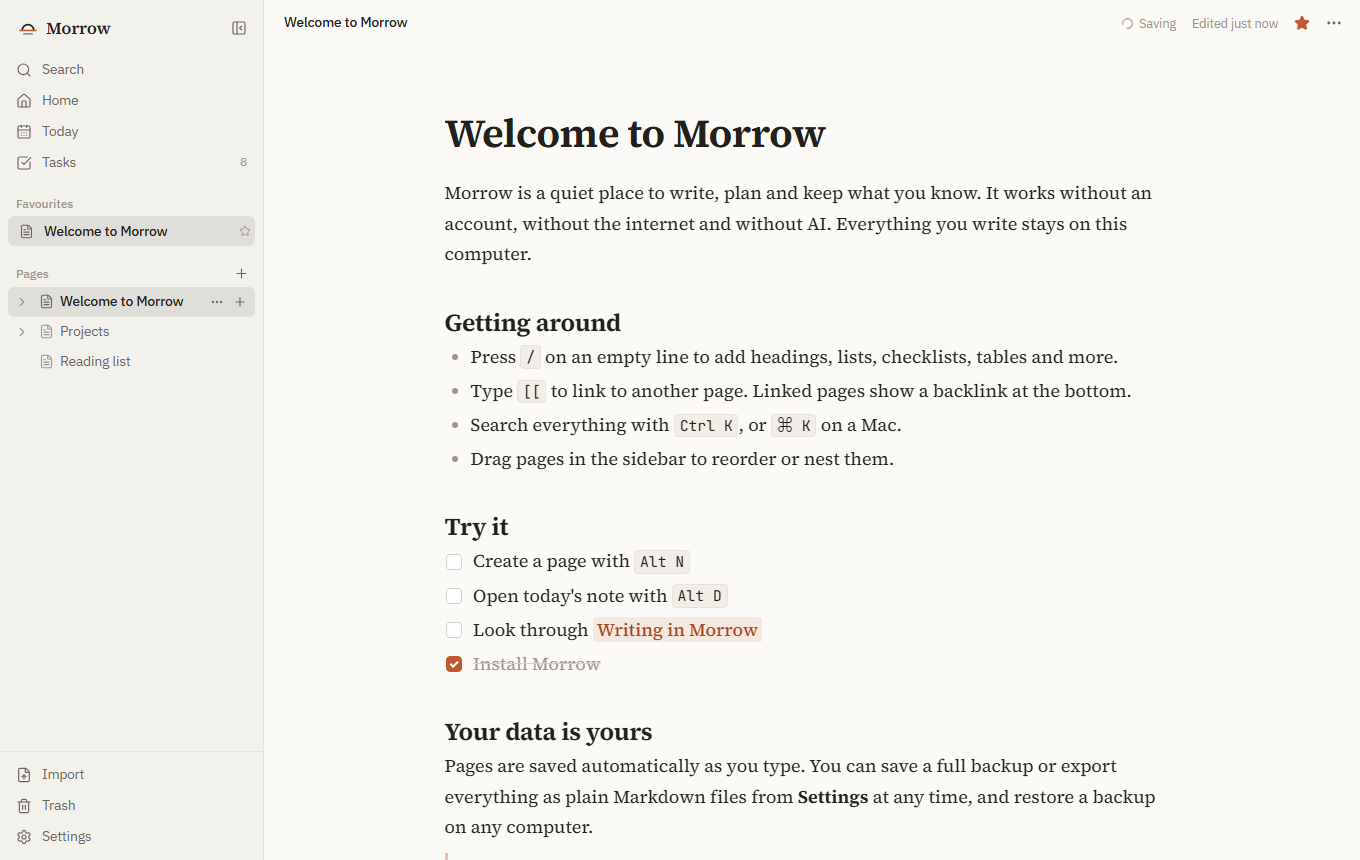
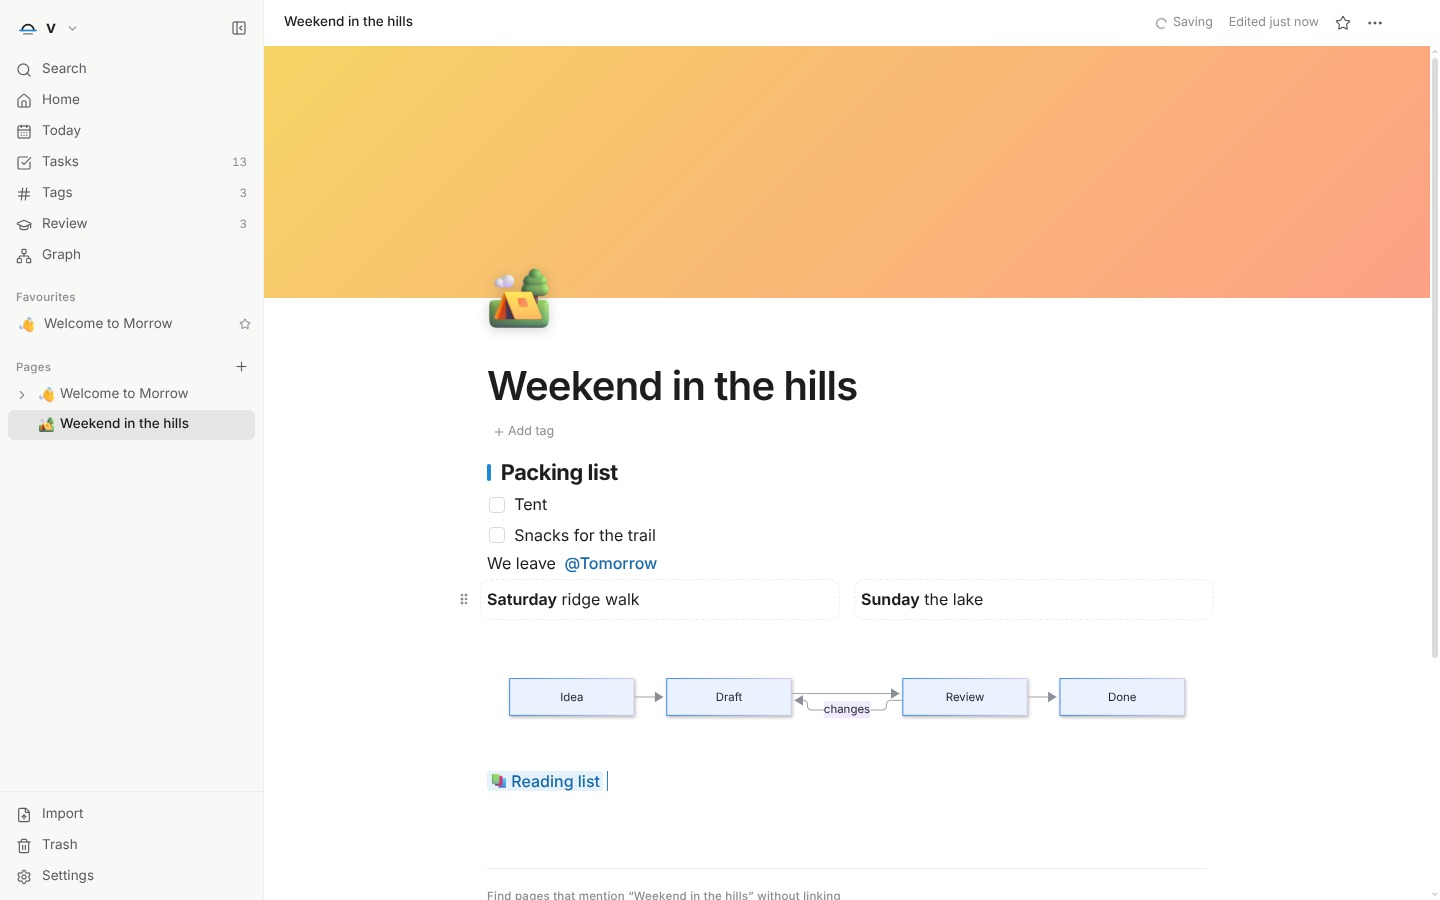
Cleanup and v1.0.0 Release.

diff --git a/src/core/sample.ts b/src/core/sample.ts
@@ -308,14 +308,14 @@ export function sampleCommands(newId: () => PageId, now: number): Command[] {
         bullets(
           [
             b('Your files, forever.'),
-            ' Pages are Markdown, canvases are JSON Canvas, databases are folders of pages. Open them in Obsidian, VS Code or any editor.',
+            ' Pages are Markdown, canvases are JSON Canvas, databases are folders of pages. Open them in any text editor.',
           ],
           [
-            b('Notion’s power, offline.'),
+            b('Powerful databases, offline.'),
             ' Databases with board, table, calendar, list and gallery views, relations and formulas, all on your own computer.',
           ],
           [
-            b('Obsidian’s freedom, without the setup.'),
+            b('Everything built in.'),
             ' Links, backlinks, a graph, canvases and daily notes work the moment you open the app. No plugins to hunt for.',
           ],
           [
@@ -409,7 +409,7 @@ export function sampleCommands(newId: () => PageId, now: number): Command[] {
         callout(
           'tip',
           'A tip',
-          p('Callouts are Obsidian callouts in the file, so they look the same there.'),
+          p('Callouts are saved as standard Markdown callouts, so other Markdown apps show them too.'),
         ),
         callout('warning', 'A warning', p('Use these for things that matter.')),
         callout('danger', 'Danger', p('And these for things that really matter.')),
@@ -577,7 +577,7 @@ export function sampleCommands(newId: () => PageId, now: number): Command[] {
           date(day(7)),
           '. Click one to open that day’s note. In the file it is a link like ',
           k(`[[${day(0)}]]`),
-          ', the way Obsidian names daily notes.',
+          ', the common way daily notes are named.',
         ),
         h(1, 'Tags'),
         p(
@@ -663,7 +663,7 @@ export function sampleCommands(newId: () => PageId, now: number): Command[] {
       5,
       doc(
         p(
-          'A database is a page whose subpages are its rows. Each row is a full page with its own content, plus properties like status, dates and numbers. In your vault a database is a folder, and each row is a Markdown file with its properties at the top, readable by Obsidian and anything else.',
+          'A database is a page whose subpages are its rows. Each row is a full page with its own content, plus properties like status, dates and numbers. In your vault a database is a folder, and each row is a Markdown file with its properties at the top, readable by any Markdown app.',
         ),
         h(1, 'An example'),
         p(
@@ -770,7 +770,7 @@ export function sampleCommands(newId: () => PageId, now: number): Command[] {
         p(
           'A canvas is an endless whiteboard of cards, pages, arrows, groups and freehand ink. Open the ',
           link(board, 'Ideas board'),
-          ' below to try it. Canvases are saved as JSON Canvas files, which Obsidian opens too.',
+          ' below to try it. Canvases are saved as open JSON Canvas files.',
         ),
         h(1, 'Cards and arrows'),
         bullets(
@@ -944,17 +944,17 @@ export function sampleCommands(newId: () => PageId, now: number): Command[] {
           ' and turn on sync on two computers on the same network. Pair them once with the code one of them shows, and from then on they keep each other up to date directly, with no cloud in between. When both change the same page, both versions are kept so nothing is lost.',
         ),
         p(
-          'You can also put the vault folder in any sync service you already trust, such as Syncthing, iCloud Drive or Dropbox.',
+          'You can also put the vault folder in any sync service you already trust, such as a synced cloud drive.',
         ),
         h(1, 'Bring your notes in'),
         bullets(
           [
-            'From Notion: export your workspace as Markdown and CSV, then choose the zip in ',
+            'From other note apps: export your workspace as Markdown and CSV, then choose the zip in ',
             b('Import'),
             '. Databases come across as databases.',
           ],
           [
-            'From Obsidian: open your vault folder as a Morrow vault. Links, tags, callouts and canvases already work.',
+            'From a folder of Markdown notes: open it as a Morrow vault. Wiki links, tags, callouts and canvases already work.',
           ],
           ['Markdown files and folders from anywhere else, and CSV files as databases.'],
         ),
@@ -968,7 +968,7 @@ export function sampleCommands(newId: () => PageId, now: number): Command[] {
         p(
           'Choose ',
           b('Publish as a website'),
-          ' from a page’s menu to turn it and its subpages into a small static site, with navigation and working links. Upload the folder to any host, such as GitHub Pages or Netlify.',
+          ' from a page’s menu to turn it and its subpages into a small static site, with navigation and working links. Upload the folder to any static web host.',
         ),
       ),
     ),

diff --git a/src/app/editor/Extras.ts b/src/app/editor/Extras.ts
@@ -266,44 +266,63 @@ export const CODE_LANGUAGES = [...lowlight.listLanguages(), 'mermaid'].sort();
 // mermaid is large, it loads the first time a page has a diagram on it
 let mermaidReady: Promise<Mermaid> | null = null;
 let diagramCount = 0;
+let diagramTheme: string | null = null;
+
+function configureMermaid(mermaid: Mermaid): void {
+  const dark = document.documentElement.dataset.theme === 'dark';
+  // the base theme tinted with morrow's colours, so diagrams belong on the page
+  mermaid.initialize({
+    startOnLoad: false,
+    securityLevel: 'strict',
+    theme: 'base',
+    fontFamily: 'Inter Variable, system-ui, sans-serif',
+    themeVariables: dark
+      ? {
+          background: '#191919',
+          primaryColor: '#1d2b3f',
+          primaryBorderColor: '#4c8df6',
+          primaryTextColor: '#e8e8e8',
+          secondaryColor: '#2a2140',
+          tertiaryColor: '#202020',
+          lineColor: '#8b9099',
+          textColor: '#e8e8e8',
+          fontSize: '14px',
+        }
+      : {
+          background: '#ffffff',
+          primaryColor: '#e9f2fe',
+          primaryBorderColor: '#2f80ed',
+          primaryTextColor: '#1f2328',
+          secondaryColor: '#f1eafe',
+          tertiaryColor: '#f7f7f5',
+          lineColor: '#8a8f98',
+          textColor: '#1f2328',
+          fontSize: '14px',
+        },
+  });
+}
+
+// diagrams on screen draw themselves again when the theme changes
+const redrawers = new Set<() => void>();
+let themeWatcher: MutationObserver | null = null;
+function onThemeChange(redraw: () => void): () => void {
+  if (!themeWatcher) {
+    themeWatcher = new MutationObserver(() => redrawers.forEach((fn) => fn()));
+    themeWatcher.observe(document.documentElement, { attributes: true, attributeFilter: ['data-theme'] });
+  }
+  redrawers.add(redraw);
+  return () => redrawers.delete(redraw);
+}
 export async function renderMermaid(source: string): Promise<{ html: string; error: boolean }> {
   if (!source.trim()) return { html: '', error: false };
-  mermaidReady ??= import('mermaid').then(({ default: mermaid }) => {
-    const dark = document.documentElement.dataset.theme === 'dark';
-    // the base theme tinted with morrow's colours, so diagrams belong on the page
-    mermaid.initialize({
-      startOnLoad: false,
-      securityLevel: 'strict',
-      theme: 'base',
-      fontFamily: 'Inter Variable, system-ui, sans-serif',
-      themeVariables: dark
-        ? {
-            background: '#191919',
-            primaryColor: '#1d2b3f',
-            primaryBorderColor: '#4c8df6',
-            primaryTextColor: '#e8e8e8',
-            secondaryColor: '#2a2140',
-            tertiaryColor: '#202020',
-            lineColor: '#8b9099',
-            textColor: '#e8e8e8',
-            fontSize: '14px',
-          }
-        : {
-            background: '#ffffff',
-            primaryColor: '#e9f2fe',
-            primaryBorderColor: '#2f80ed',
-            primaryTextColor: '#1f2328',
-            secondaryColor: '#f1eafe',
-            tertiaryColor: '#f7f7f5',
-            lineColor: '#8a8f98',
-            textColor: '#1f2328',
-            fontSize: '14px',
-          },
-    });
-    return mermaid;
-  });
+  mermaidReady ??= import('mermaid').then(({ default: mermaid }) => mermaid);
   try {
     const mermaid = await mermaidReady;
+    const theme = document.documentElement.dataset.theme ?? 'light';
+    if (theme !== diagramTheme) {
+      diagramTheme = theme;
+      configureMermaid(mermaid);
+    }
     const { svg } = await mermaid.render(`morrow-diagram-${++diagramCount}`, source);
     return { html: svg, error: false };
   } catch (error) {
@@ -405,6 +424,10 @@ export const CodeBlock = CodeBlockLowlight.extend({
       dom.append(select, toggle, pre, diagram);
       layout();
       draw();
+      const stopWatching = onThemeChange(() => {
+        drawn = '';
+        draw();
+      });
       const ours = (target: EventTarget | globalThis.Node | null) =>
         select.contains(target as globalThis.Node) ||
         toggle.contains(target as globalThis.Node) ||
@@ -424,6 +447,7 @@ export const CodeBlock = CodeBlockLowlight.extend({
         ignoreMutation: (mutation) => ours(mutation.target),
         destroy: () => {
           if (timer) clearTimeout(timer);
+          stopWatching();
         },
       };
     };

diff --git a/src/app/actions.ts b/src/app/actions.ts
@@ -127,7 +127,7 @@ export const ACTIONS: Action[] = [
     label: 'New database',
     group: 'General',
     icon: Table2,
-    keywords: 'table board kanban calendar gallery notion collection',
+    keywords: 'table board kanban calendar gallery collection',
     run: () => createPage({ kind: 'database' }),
   },
   {
@@ -170,7 +170,7 @@ export const ACTIONS: Action[] = [
     group: 'General',
     icon: GraduationCap,
     shortcut: 'Alt+R',
-    keywords: 'flashcards spaced repetition study learn anki',
+    keywords: 'flashcards spaced repetition study learn',
     run: () => navigate({ name: 'review' }),
   },
   {
@@ -195,7 +195,7 @@ export const ACTIONS: Action[] = [
     label: 'Open another vault',
     group: 'Data',
     icon: FolderOpen,
-    keywords: 'folder switch vault obsidian',
+    keywords: 'folder switch vault',
     enabled: () => desktop?.vault !== undefined,
     run: () => void chooseVaultFolder(),
   },
@@ -336,7 +336,7 @@ export const ACTIONS: Action[] = [
     label: 'Import Markdown files',
     group: 'Data',
     icon: FileUp,
-    keywords: 'md obsidian',
+    keywords: 'md markdown',
     run: () => void importMarkdown(),
   },
   {

diff --git a/src/app/editor/SlashCommand.ts b/src/app/editor/SlashCommand.ts
@@ -245,7 +245,7 @@ export const BLOCK_ITEMS: BlockItem[] = [
     title: 'Database',
     description: 'Table, board and calendar of pages',
     icon: Table2,
-    keywords: 'notion collection kanban board calendar gallery table',
+    keywords: 'collection kanban board calendar gallery table',
     run: (e, r, options) => linkChild(e, r, options, 'database'),
   },
   {
@@ -261,7 +261,7 @@ export const BLOCK_ITEMS: BlockItem[] = [
     title: 'Inline database',
     description: 'A database shown right on this page',
     icon: Table2,
-    keywords: 'notion inline table board embedded view',
+    keywords: 'inline table board embedded view',
     run: (e, r, options) => linkChild(e, r, options, 'database', true),
   },
   {

diff --git a/src/app/components/VaultChooser.tsx b/src/app/components/VaultChooser.tsx
@@ -44,7 +44,7 @@ export function VaultChooser({ legacy }: { legacy: number }) {
           <span>
             <strong>Open a folder</strong>
             <span className="muted">
-              Any folder, including an Obsidian vault or a folder of Markdown files.
+              Any folder, including an existing vault or a folder of Markdown files.
             </span>
           </span>
         </button>

diff --git a/README.md b/README.md
@@ -5,7 +5,7 @@ and ideas. Every page is a plain Markdown file in a folder you choose. No
 account, no subscription, no cloud and no AI. Just a calm place to write and
 think, on your own computer.
 
-![Morrow showing a project page with a checklist and a table](ss.png)
+![Morrow showing a page with a cover, an icon, a checklist, a date, columns and a diagram](ss.png)
 
 ## Why Morrow
 
@@ -123,30 +123,12 @@ npm run dev        # opens the desktop app with live reload
 | `npm run check` | Type check, lint, tests and build together          |
 
 On Windows `npm run dist` produces `Morrow-Setup-<version>.exe` and a portable
-`.exe`. Pushing a tag such as `v1.0.0` builds Windows, macOS and Linux versions
-on GitHub and attaches them to a release. Morrow never checks for updates on
+`.exe`. Morrow never checks for updates on
 its own; new versions are downloaded from the releases page. Builds are signed automatically once the
 signing secrets (`CSC_LINK` and `CSC_KEY_PASSWORD`, plus `APPLE_ID`,
 `APPLE_APP_SPECIFIC_PASSWORD` and `APPLE_TEAM_ID` for macOS) are added to the
 repository. Until then Windows SmartScreen and macOS Gatekeeper warn the first
 time Morrow is opened.
-
-## Signing builds for free
-
-Unsigned builds work, but Windows SmartScreen and macOS Gatekeeper warn the
-first time they open. What it costs to remove those warnings:
-
-| Platform | Free option                                             | Notes                                                                                                                                                                                                                                                                                             |
-| -------- | ------------------------------------------------------- | ------------------------------------------------------------------------------------------------------------------------------------------------------------------------------------------------------------------------------------------------------------------------------------------------- |
-| Windows  | [SignPath Foundation](https://signpath.org)             | Free code signing for open source projects with an OSI licence (Morrow's Apache 2.0 qualifies). Apply with the public repository; once accepted, the release workflow uploads the built `.exe` to SignPath's GitHub action and gets it back signed. The publisher shown is "SignPath Foundation". |
-| Windows  | [Microsoft Store](https://storedeveloper.microsoft.com) | Registration is free for individual developers since September 2025. Add an `appx` target to electron-builder and submit the package; Microsoft signs what it publishes, so Store installs never show SmartScreen.                                                                                |
-| macOS    | none                                                    | Apple requires a paid Developer Program membership ($99 a year) for a Developer ID certificate and notarisation. Without it, people open Morrow once from **System Settings → Privacy & Security → Open Anyway**, or run `xattr -cr /Applications/Morrow.app`.                                    |
-| Linux    | not needed                                              | AppImage, deb and rpm packages are not signed by convention. Publishing a `SHA256SUMS` file with each release, signed with your GPG key, lets people check their download.                                                                                                                        |
-
-With a certificate, signing is already wired up: add `CSC_LINK` and
-`CSC_KEY_PASSWORD` (and `APPLE_ID`, `APPLE_APP_SPECIFIC_PASSWORD` and
-`APPLE_TEAM_ID` for macOS) as repository secrets and the release workflow signs
-everything it builds.
 
 ## Where your data lives
 
